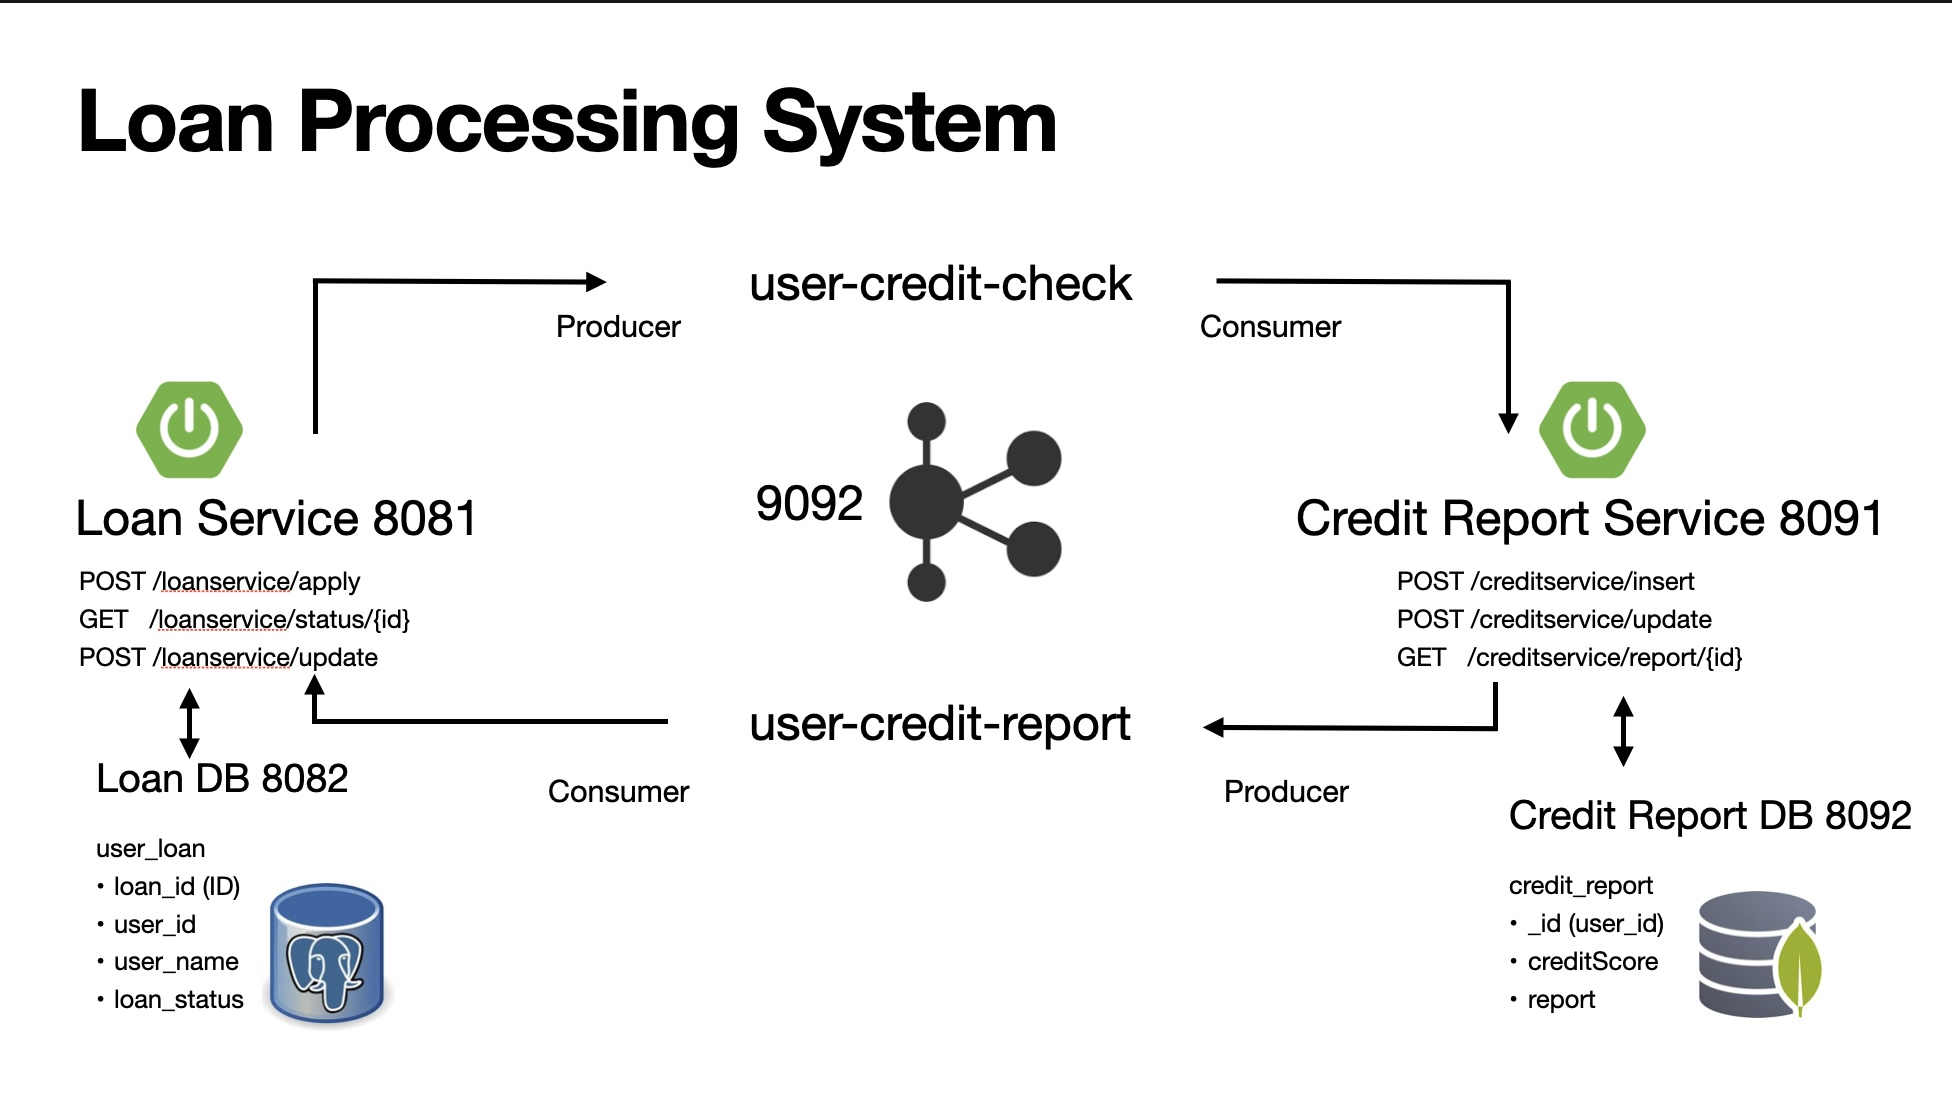
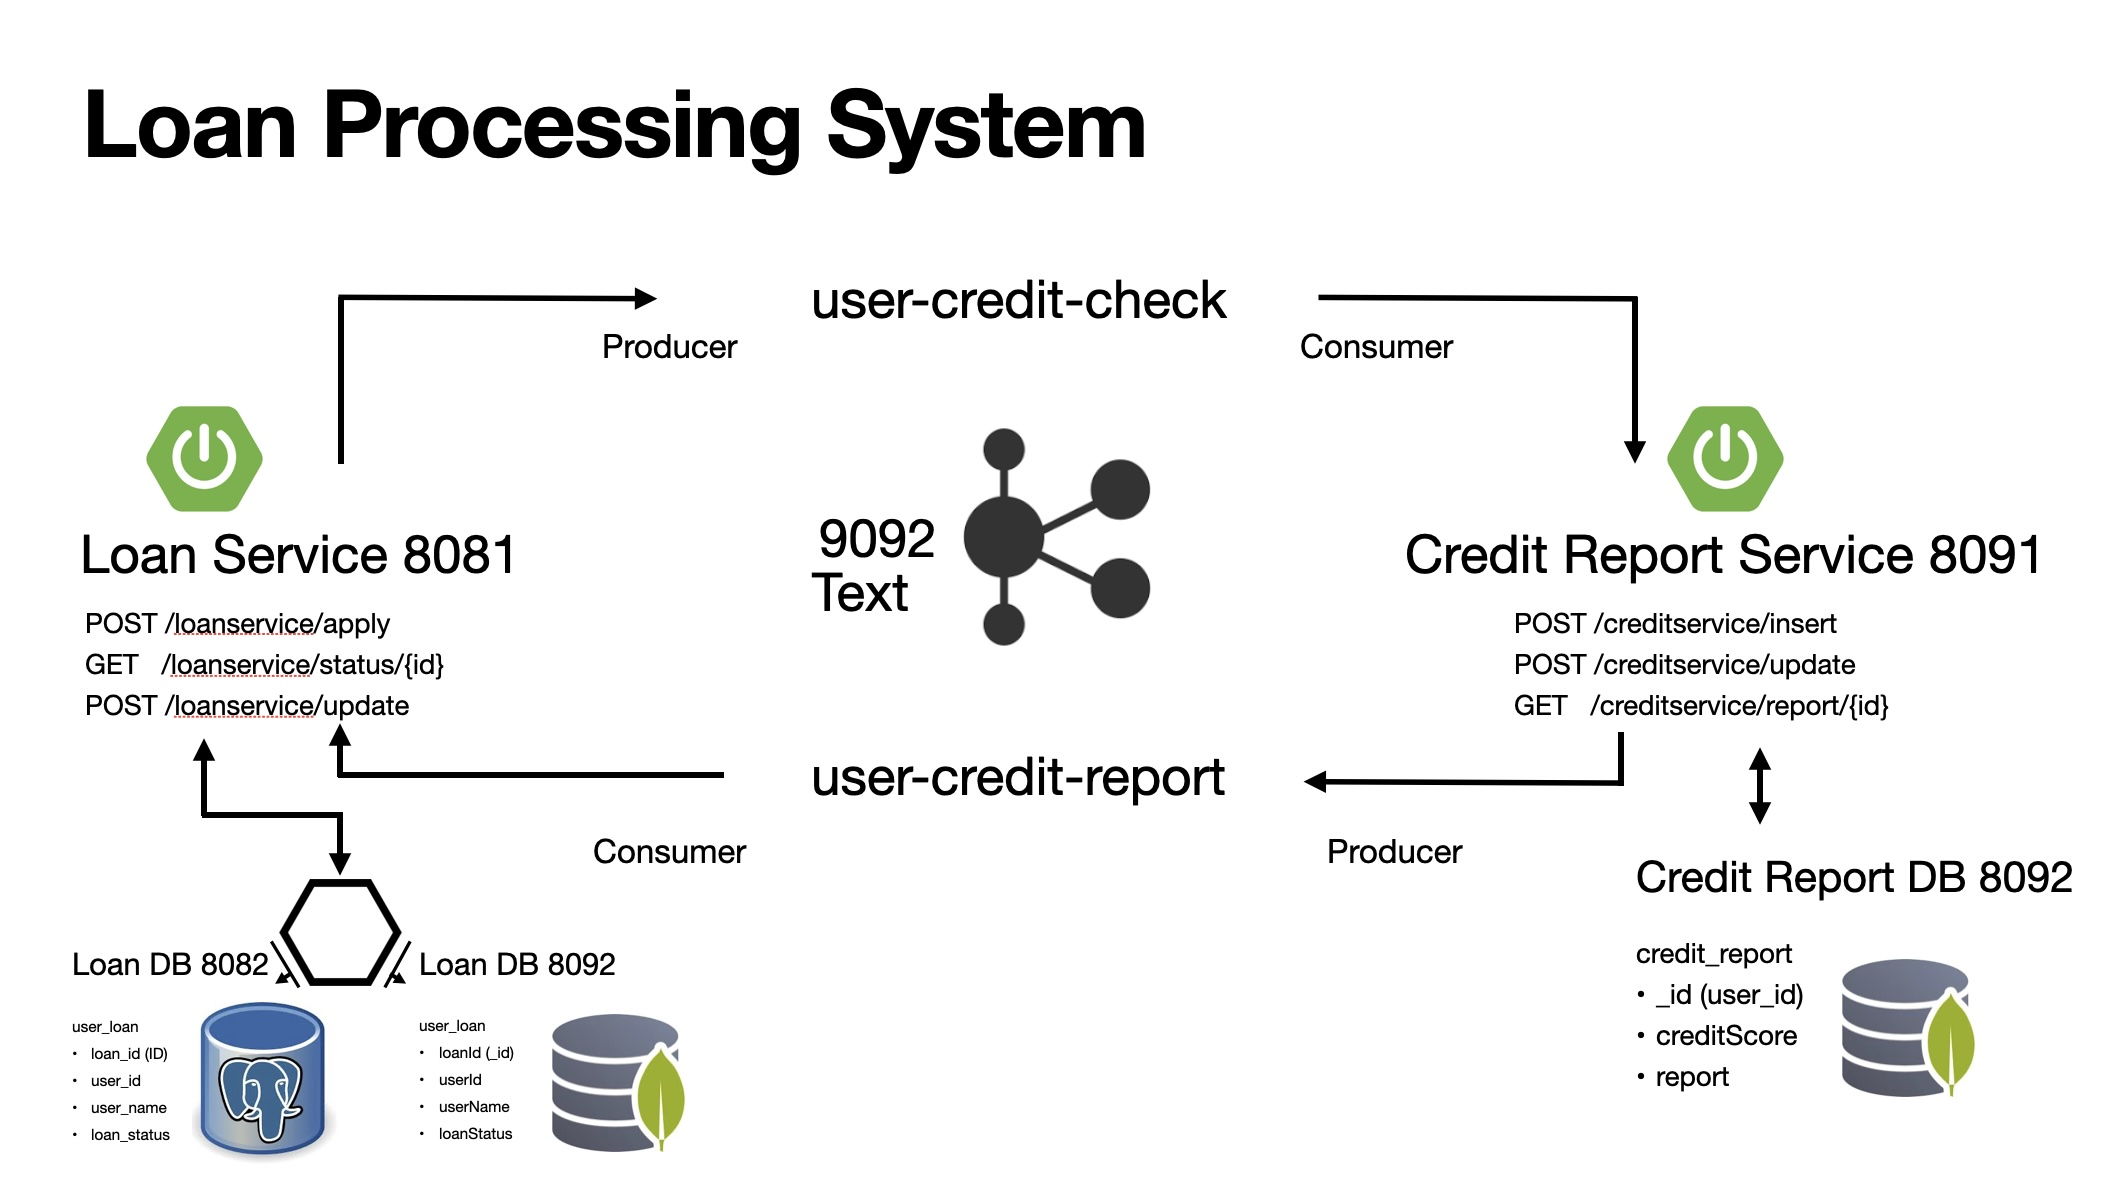
Added Hexagonal Architecture

diff --git a/loan-service/src/main/java/com/protim/service/loan/service/LoanService.java b/loan-service/src/main/java/com/protim/service/loan/service/LoanService.java
@@ -1,8 +1,8 @@
 package com.protim.service.loan.service;
 
 import com.protim.service.loan.dao.UserLoanDao;
-import com.protim.service.loan.entity.UserLoan;
-import com.protim.service.loan.repository.LoanRepository;
+import com.protim.service.loan.db.UserLoanEntity;
+import com.protim.service.loan.repository.LoanJpaRepository;
 import lombok.extern.slf4j.Slf4j;
 import org.springframework.beans.factory.annotation.Value;
 import org.springframework.http.HttpStatus;
@@ -13,18 +13,18 @@ import org.springframework.web.client.HttpClientErrorException;
 
 @Slf4j
 @Service
-public record LoanService(LoanRepository repository,
+public record LoanService(LoanJpaRepository repository,
                           KafkaTemplate<String, String> kafkaTemplate,
                           @Value("${spring.kafka.producer.topic}") String topic) {
 
-    public UserLoan applyLoan(UserLoanDao userLoanDao){
-        UserLoan userLoan = repository.save(userLoanDao.toEntity());
+    public UserLoanEntity applyLoan(UserLoanDao userLoanDao){
+        UserLoanEntity userLoan = repository.save(userLoanDao.toEntity());
         kafkaTemplate.send(topic, userLoan.getUserId(), userLoan.getLoanId());
         log.info("\nLoan Application placed successfully: {}", userLoan.getLoanId());
         return userLoan;
     }
 
-    public UserLoan getLoanStatus(String loanId){
+    public UserLoanEntity getLoanStatus(String loanId){
         return repository.findById(loanId)
                         .orElseThrow(() -> new HttpClientErrorException(HttpStatus.BAD_REQUEST, "Not found!"));
     }

diff --git a/loan-service/src/main/java/com/protim/service/loan/db/UserLoan.java b/loan-service/src/main/java/com/protim/service/loan/db/UserLoan.java
@@ -1,0 +1,42 @@
+package com.protim.service.loan.db;
+
+public record UserLoan(
+        String loanId,
+        String userId,
+        String userName,
+        String loanStatus) {
+
+    public static UserLoan fromEntity(UserLoanEntity entity){
+        return new UserLoan(
+                entity.getLoanId(),
+                entity.getUserId(),
+                entity.getUserName(),
+                entity.getLoanStatus());
+    }
+
+    public static UserLoan fromDocument(UserLoanDocument document){
+        return new UserLoan(
+                document.getLoanId(),
+                document.getUserId(),
+                document.getUserName(),
+                document.getLoanStatus());
+    }
+
+    public static UserLoanEntity createEntity(UserLoan userLoan){
+        UserLoanEntity entity = new UserLoanEntity();
+        entity.setUserId(userLoan.userId());
+        entity.setUserName(userLoan.userName());
+        entity.setLoanId(userLoan.loanId());
+        entity.setLoanStatus(userLoan.loanStatus());
+        return entity;
+    }
+
+    public static UserLoanDocument createDocument(UserLoan userLoan){
+        UserLoanDocument document = new UserLoanDocument();
+        document.setUserId(userLoan.userId());
+        document.setUserName(userLoan.userName());
+        document.setLoanId(userLoan.loanId());
+        document.setLoanStatus(userLoan.loanStatus());
+        return document;
+    }
+}

diff --git a/loan-service/src/main/java/com/protim/service/loan/kafka/CreditReportListener.java b/loan-service/src/main/java/com/protim/service/loan/kafka/CreditReportListener.java
@@ -1,7 +1,7 @@
 package com.protim.service.loan.kafka;
 
-import com.protim.service.loan.entity.UserLoan;
-import com.protim.service.loan.repository.LoanRepository;
+import com.protim.service.loan.db.UserLoan;
+import com.protim.service.loan.repository.HexagonalLoanRepository;
 import lombok.extern.slf4j.Slf4j;
 import org.apache.kafka.clients.consumer.ConsumerRecord;
 import org.springframework.kafka.annotation.KafkaListener;
@@ -11,7 +11,7 @@ import java.util.concurrent.CompletableFuture;
 
 @Slf4j
 @Service
-public record CreditReportListener(LoanRepository repository) {
+public record CreditReportListener(HexagonalLoanRepository repository) {
 
     @KafkaListener(topics = "${spring.kafka.consumer.topic}")
     public void listen(ConsumerRecord<String, String> message) throws Exception {
@@ -29,8 +29,12 @@ public record CreditReportListener(LoanRepository repository) {
                 () -> new UnsupportedOperationException("Cannot find application id: " + loanApplicationId)
         );
 
-        loanApplication.setLoanStatus(status);
-        repository.save(loanApplication);
+        UserLoan updatedApplication = new UserLoan(
+                loanApplication.loanId(),
+                loanApplication.userId(),
+                loanApplication.userName(),
+                status);
+        repository.save(updatedApplication);
         return loanApplicationId;
     }
 }

diff --git a/loan-service/src/main/java/com/protim/service/loan/repository/HexagonalMongoLoanRepository.java b/loan-service/src/main/java/com/protim/service/loan/repository/HexagonalMongoLoanRepository.java
@@ -1,0 +1,40 @@
+package com.protim.service.loan.repository;
+
+import com.protim.service.loan.dao.UserLoanDao;
+import com.protim.service.loan.db.UserLoan;
+import com.protim.service.loan.db.UserLoanDocument;
+import org.springframework.beans.factory.annotation.Autowired;
+import org.springframework.context.annotation.Lazy;
+import org.springframework.context.annotation.Primary;
+import org.springframework.stereotype.Component;
+
+import java.util.Optional;
+
+@Lazy
+@Component
+@Primary // Activate this to use MongoDB
+public class HexagonalMongoLoanRepository implements HexagonalLoanRepository{
+
+    @Autowired
+    LoanMongoRepository repository;
+
+    @Override
+    public UserLoan saveDao(UserLoanDao userLoanDao) {
+        UserLoanDocument document = repository.save(userLoanDao.toDocument());
+        return UserLoan.fromDocument(document);
+    }
+
+    @Override
+    public UserLoan save(UserLoan userLoan) {
+        UserLoanDocument document = UserLoan.createDocument(userLoan);
+        return UserLoan.fromDocument(repository.save(UserLoan.createDocument(userLoan)));
+    }
+
+    @Override
+    public Optional<UserLoan> findById(String id) {
+        Optional<UserLoanDocument> userLoanDocument = repository.findById(id);
+        return userLoanDocument.map(UserLoan::fromDocument);
+    }
+
+
+}

diff --git a/loan-service/src/main/java/com/protim/service/loan/repository/HexagonalJpaLoanRepository.java b/loan-service/src/main/java/com/protim/service/loan/repository/HexagonalJpaLoanRepository.java
@@ -1,0 +1,39 @@
+package com.protim.service.loan.repository;
+
+import com.protim.service.loan.dao.UserLoanDao;
+import com.protim.service.loan.db.UserLoan;
+import com.protim.service.loan.db.UserLoanEntity;
+import org.springframework.beans.factory.annotation.Autowired;
+import org.springframework.context.annotation.Lazy;
+import org.springframework.stereotype.Component;
+
+import java.util.Optional;
+
+@Lazy
+@Component
+//@Primary // Activate this to use JPA (Postgres)
+public class HexagonalJpaLoanRepository implements HexagonalLoanRepository{
+
+    @Autowired
+    LoanJpaRepository repository;
+
+    @Override
+    public UserLoan saveDao(UserLoanDao userLoanDao) {
+        UserLoanEntity entity = repository.save(userLoanDao.toEntity());
+        return UserLoan.fromEntity(entity);
+    }
+
+    @Override
+    public UserLoan save(UserLoan userLoan) {
+        UserLoanEntity entity = repository.save(UserLoan.createEntity(userLoan));
+        return UserLoan.fromEntity(entity);
+    }
+
+    @Override
+    public Optional<UserLoan> findById(String id) {
+        Optional<UserLoanEntity> userLoan = repository.findById(id);
+        return userLoan.map(UserLoan::fromEntity);
+    }
+
+
+}

diff --git a/loan-service/src/main/java/com/protim/service/loan/dao/UserLoanDao.java b/loan-service/src/main/java/com/protim/service/loan/dao/UserLoanDao.java
@@ -1,13 +1,30 @@
 package com.protim.service.loan.dao;
 
-import com.protim.service.loan.entity.UserLoan;
+import com.protim.service.loan.db.UserLoanDocument;
+import com.protim.service.loan.db.UserLoanEntity;
 
 public record UserLoanDao (String userId, String userName){
-    public UserLoan toEntity(){
-        UserLoan entity = new UserLoan();
+    public UserLoanEntity toEntity(){
+        UserLoanEntity entity = new UserLoanEntity();
         entity.setUserId(this.userId);
         entity.setUserName(this.userName);
         entity.setLoanStatus("APPLIED");
         return entity;
+    }
+
+    public UserLoanDocument toDocument(){
+        UserLoanDocument document = new UserLoanDocument();
+        document.setUserId(this.userId);
+        document.setUserName(this.userName);
+        document.setLoanStatus("APPLIED");
+        return document;
+    }
+
+    public static UserLoanDao getDaoFromDocument(UserLoanDocument document){
+        return new UserLoanDao(document.getUserId(), document.getUserName());
+    }
+
+    public static UserLoanDao getDaoFromEntity(UserLoanEntity entity){
+        return new UserLoanDao(entity.getUserId(), entity.getUserName());
     }
 }

diff --git a/loan-service/src/main/java/com/protim/service/loan/controller/LoanController.java b/loan-service/src/main/java/com/protim/service/loan/controller/LoanController.java
@@ -4,8 +4,8 @@ package com.protim.service.loan.controller;
 import com.protim.service.loan.dao.LoanErrorResponse;
 import com.protim.service.loan.dao.LoanResponse;
 import com.protim.service.loan.dao.UserLoanDao;
-import com.protim.service.loan.entity.UserLoan;
-import com.protim.service.loan.service.LoanService;
+import com.protim.service.loan.db.UserLoan;
+import com.protim.service.loan.service.HexagonalLoanService;
 import lombok.extern.slf4j.Slf4j;
 import org.springframework.http.HttpStatus;
 import org.springframework.http.ResponseEntity;
@@ -15,7 +15,7 @@ import org.springframework.web.client.HttpClientErrorException;
 @Slf4j
 @RestController
 @RequestMapping("/loanservice")
-public record LoanController (LoanService service){
+public record LoanController (HexagonalLoanService service){
 
     @PostMapping("/apply")
     public ResponseEntity<LoanResponse> applyLoan(@RequestBody UserLoanDao userLoanDao){

diff --git a/loan-service/src/main/java/com/protim/service/loan/service/HexagonalLoanService.java b/loan-service/src/main/java/com/protim/service/loan/service/HexagonalLoanService.java
@@ -1,7 +1,7 @@
 package com.protim.service.loan.service;
 
 import com.protim.service.loan.dao.UserLoanDao;
-import com.protim.service.loan.entity.UserLoan;
+import com.protim.service.loan.db.UserLoan;
 import com.protim.service.loan.kafka.HexagonalKafkaTemplate;
 import com.protim.service.loan.repository.HexagonalLoanRepository;
 import org.springframework.http.HttpStatus;
@@ -13,8 +13,8 @@ public record HexagonalLoanService(HexagonalLoanRepository repository,
                                    HexagonalKafkaTemplate kafkaTemplate) {
 
     public UserLoan applyLoan(UserLoanDao userLoanDao){
-        UserLoan userLoan = repository.save(userLoanDao);
-        kafkaTemplate.send(userLoan.getUserId(), userLoan.getLoanId());
+        UserLoan userLoan = repository.saveDao(userLoanDao);
+        kafkaTemplate.send(userLoan.userId(), userLoan.loanId());
         return userLoan;
     }
 

diff --git a/loan-service/src/main/java/com/protim/service/loan/LoanServiceApplication.java b/loan-service/src/main/java/com/protim/service/loan/LoanServiceApplication.java
@@ -7,9 +7,11 @@ import org.springframework.boot.SpringApplication;
 import org.springframework.boot.autoconfigure.SpringBootApplication;
 import org.springframework.context.annotation.Bean;
 import org.springframework.data.jpa.repository.config.EnableJpaRepositories;
+import org.springframework.data.mongodb.repository.config.EnableMongoRepositories;
 
 @SpringBootApplication
 @EnableJpaRepositories
+@EnableMongoRepositories
 public class LoanServiceApplication {
 
 	public static void main(String[] args) {

diff --git a/loan-service/src/main/java/com/protim/service/loan/repository/HexagonalLoanRepository.java b/loan-service/src/main/java/com/protim/service/loan/repository/HexagonalLoanRepository.java
@@ -1,12 +1,13 @@
 package com.protim.service.loan.repository;
 
 import com.protim.service.loan.dao.UserLoanDao;
-import com.protim.service.loan.entity.UserLoan;
+import com.protim.service.loan.db.UserLoan;
 
 import java.util.Optional;
 
 public interface HexagonalLoanRepository {
 
-    UserLoan save(UserLoanDao userLoanDao);
+    UserLoan saveDao(UserLoanDao userLoanDao);
+    UserLoan save(UserLoan userLoan);
     Optional<UserLoan> findById(String id);
 }

diff --git a/loan-service/src/main/java/com/protim/service/loan/repository/LoanJpaRepository.java b/loan-service/src/main/java/com/protim/service/loan/repository/LoanJpaRepository.java
@@ -1,9 +1,9 @@
 package com.protim.service.loan.repository;
 
-import com.protim.service.loan.entity.UserLoan;
+import com.protim.service.loan.db.UserLoanEntity;
 import org.springframework.data.jpa.repository.JpaRepository;
 import org.springframework.stereotype.Repository;
 
 @Repository
-public interface LoanRepository extends JpaRepository<UserLoan, String> {
+public interface LoanJpaRepository extends JpaRepository<UserLoanEntity, String> {
 }

diff --git a/loan-service/src/main/java/com/protim/service/loan/db/UserLoanDocument.java b/loan-service/src/main/java/com/protim/service/loan/db/UserLoanDocument.java
@@ -1,0 +1,17 @@
+package com.protim.service.loan.db;
+
+
+import lombok.Data;
+import org.springframework.data.annotation.Id;
+import org.springframework.data.mongodb.core.mapping.Document;
+
+@Data
+@Document(collection = "user_loan")
+public class UserLoanDocument {
+
+    @Id
+    String loanId;
+    String userId;
+    String userName;
+    String loanStatus;
+}
